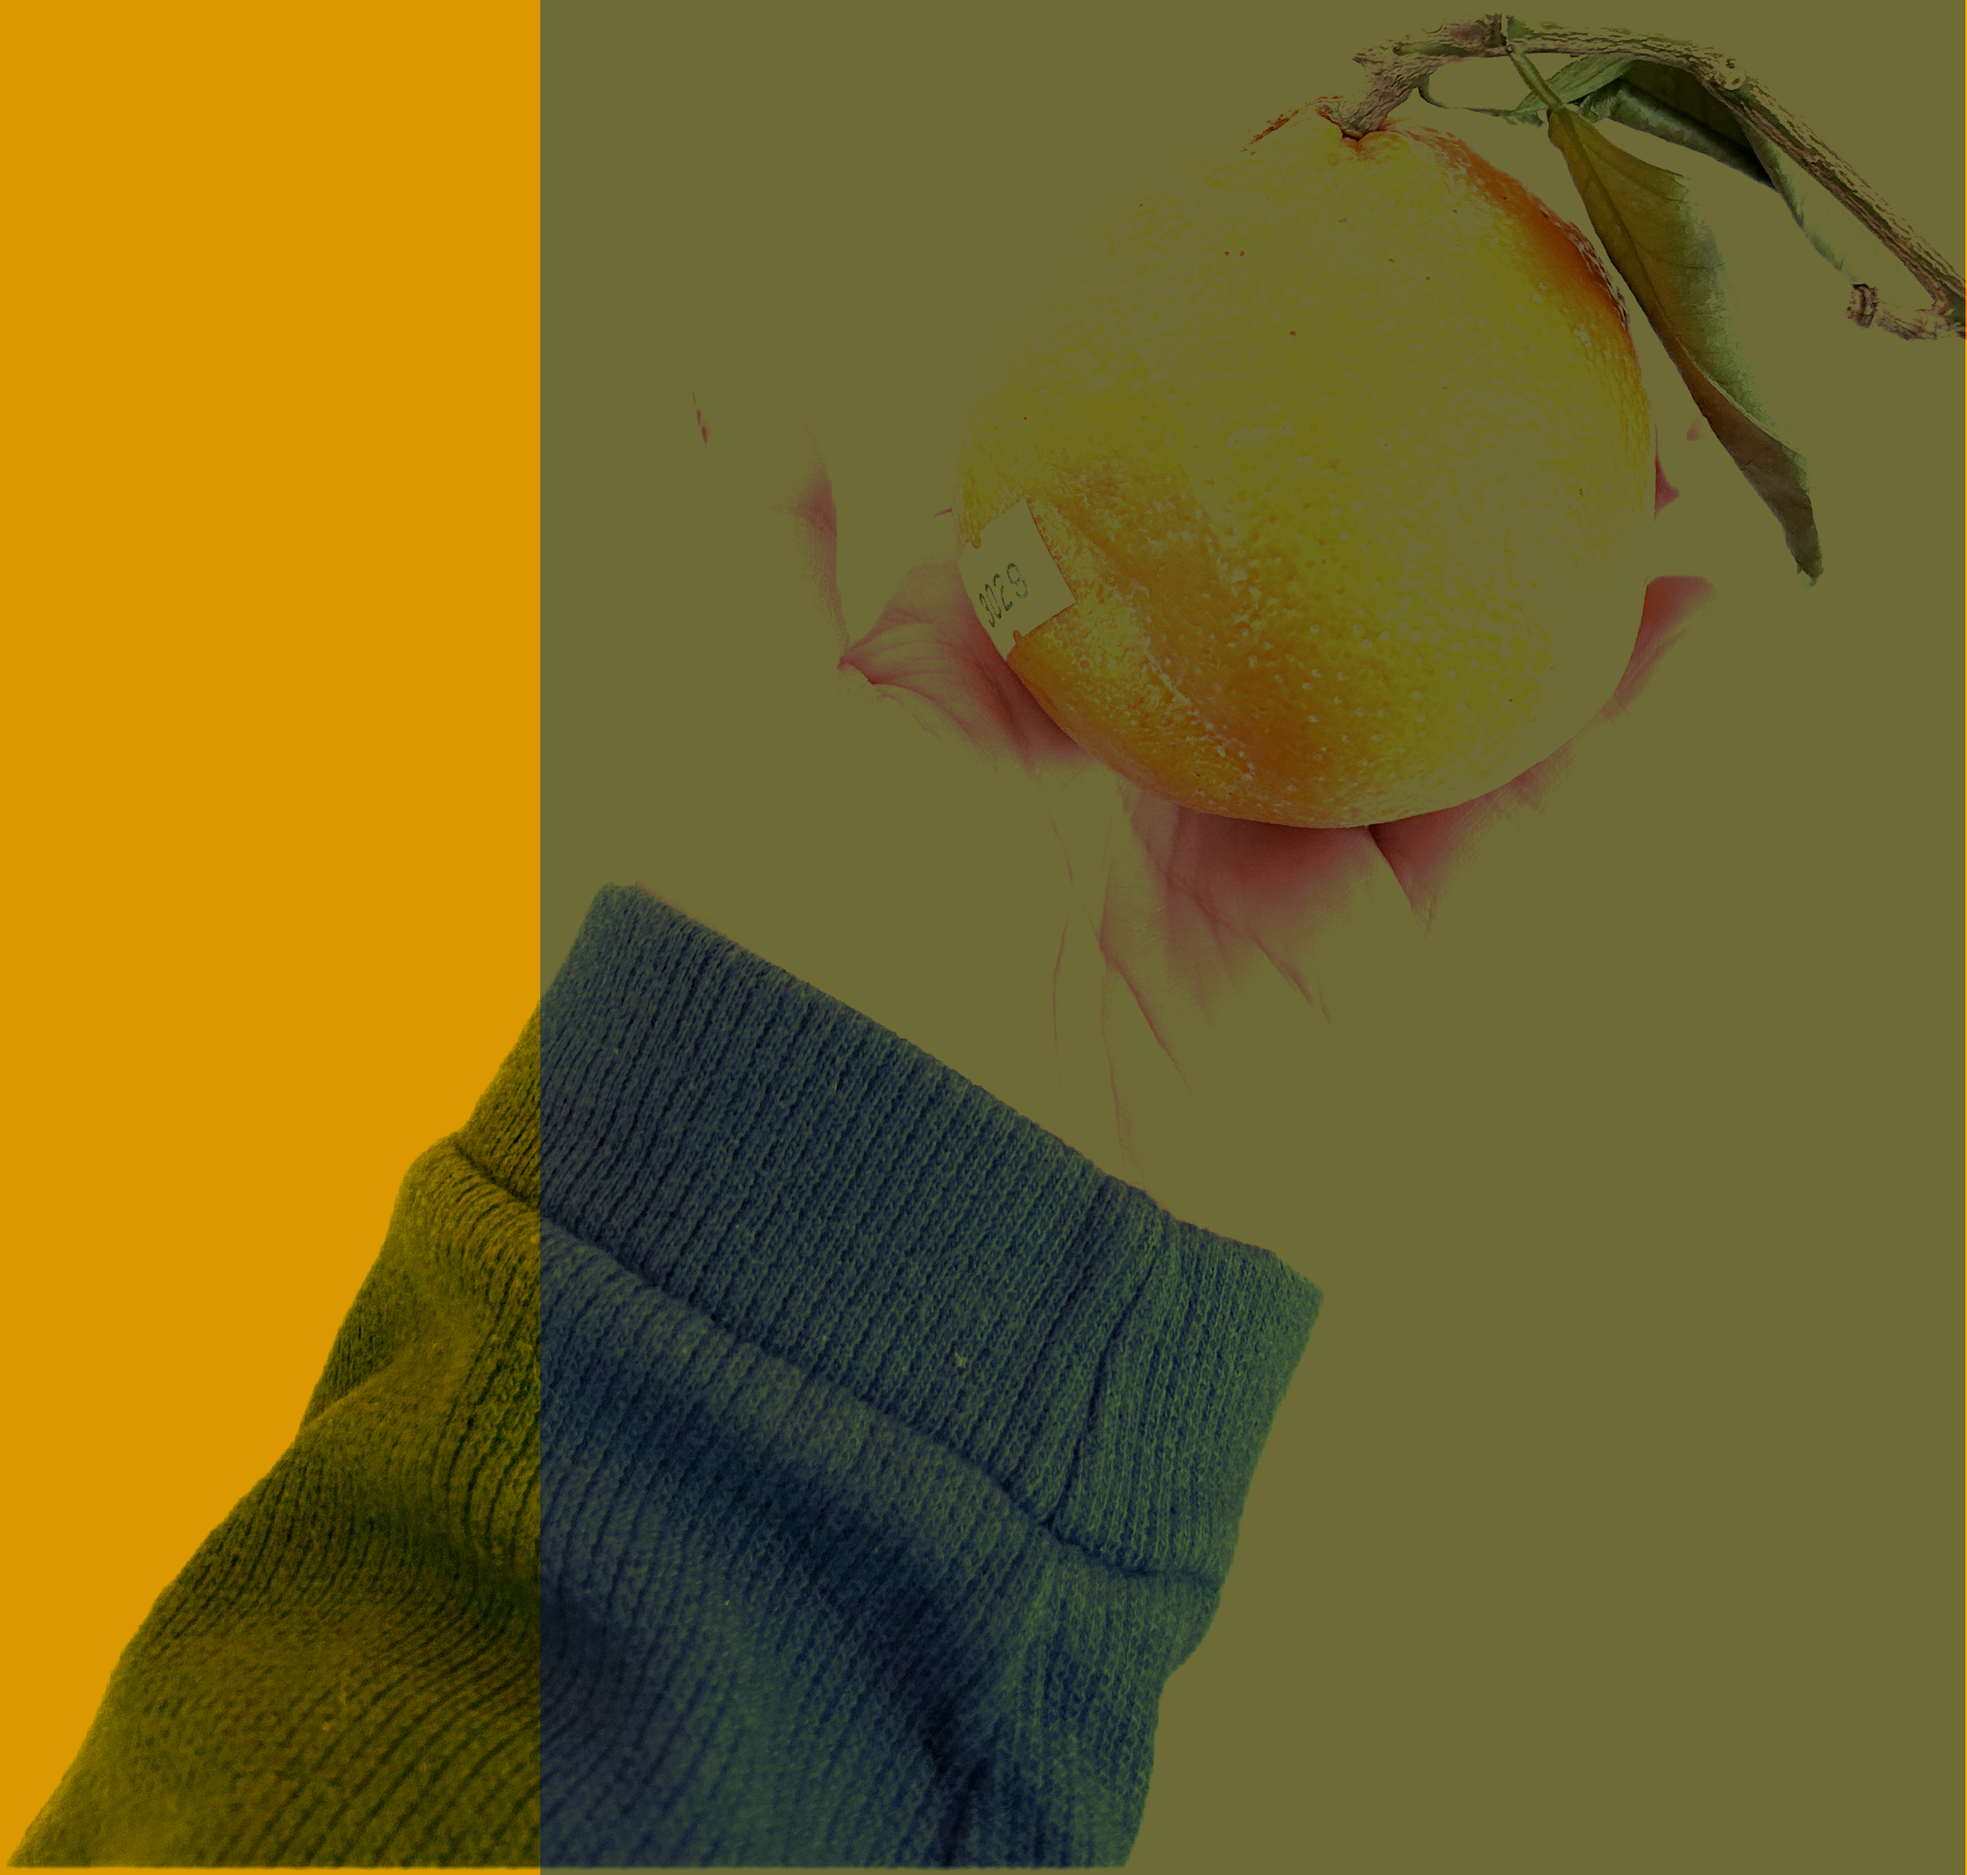
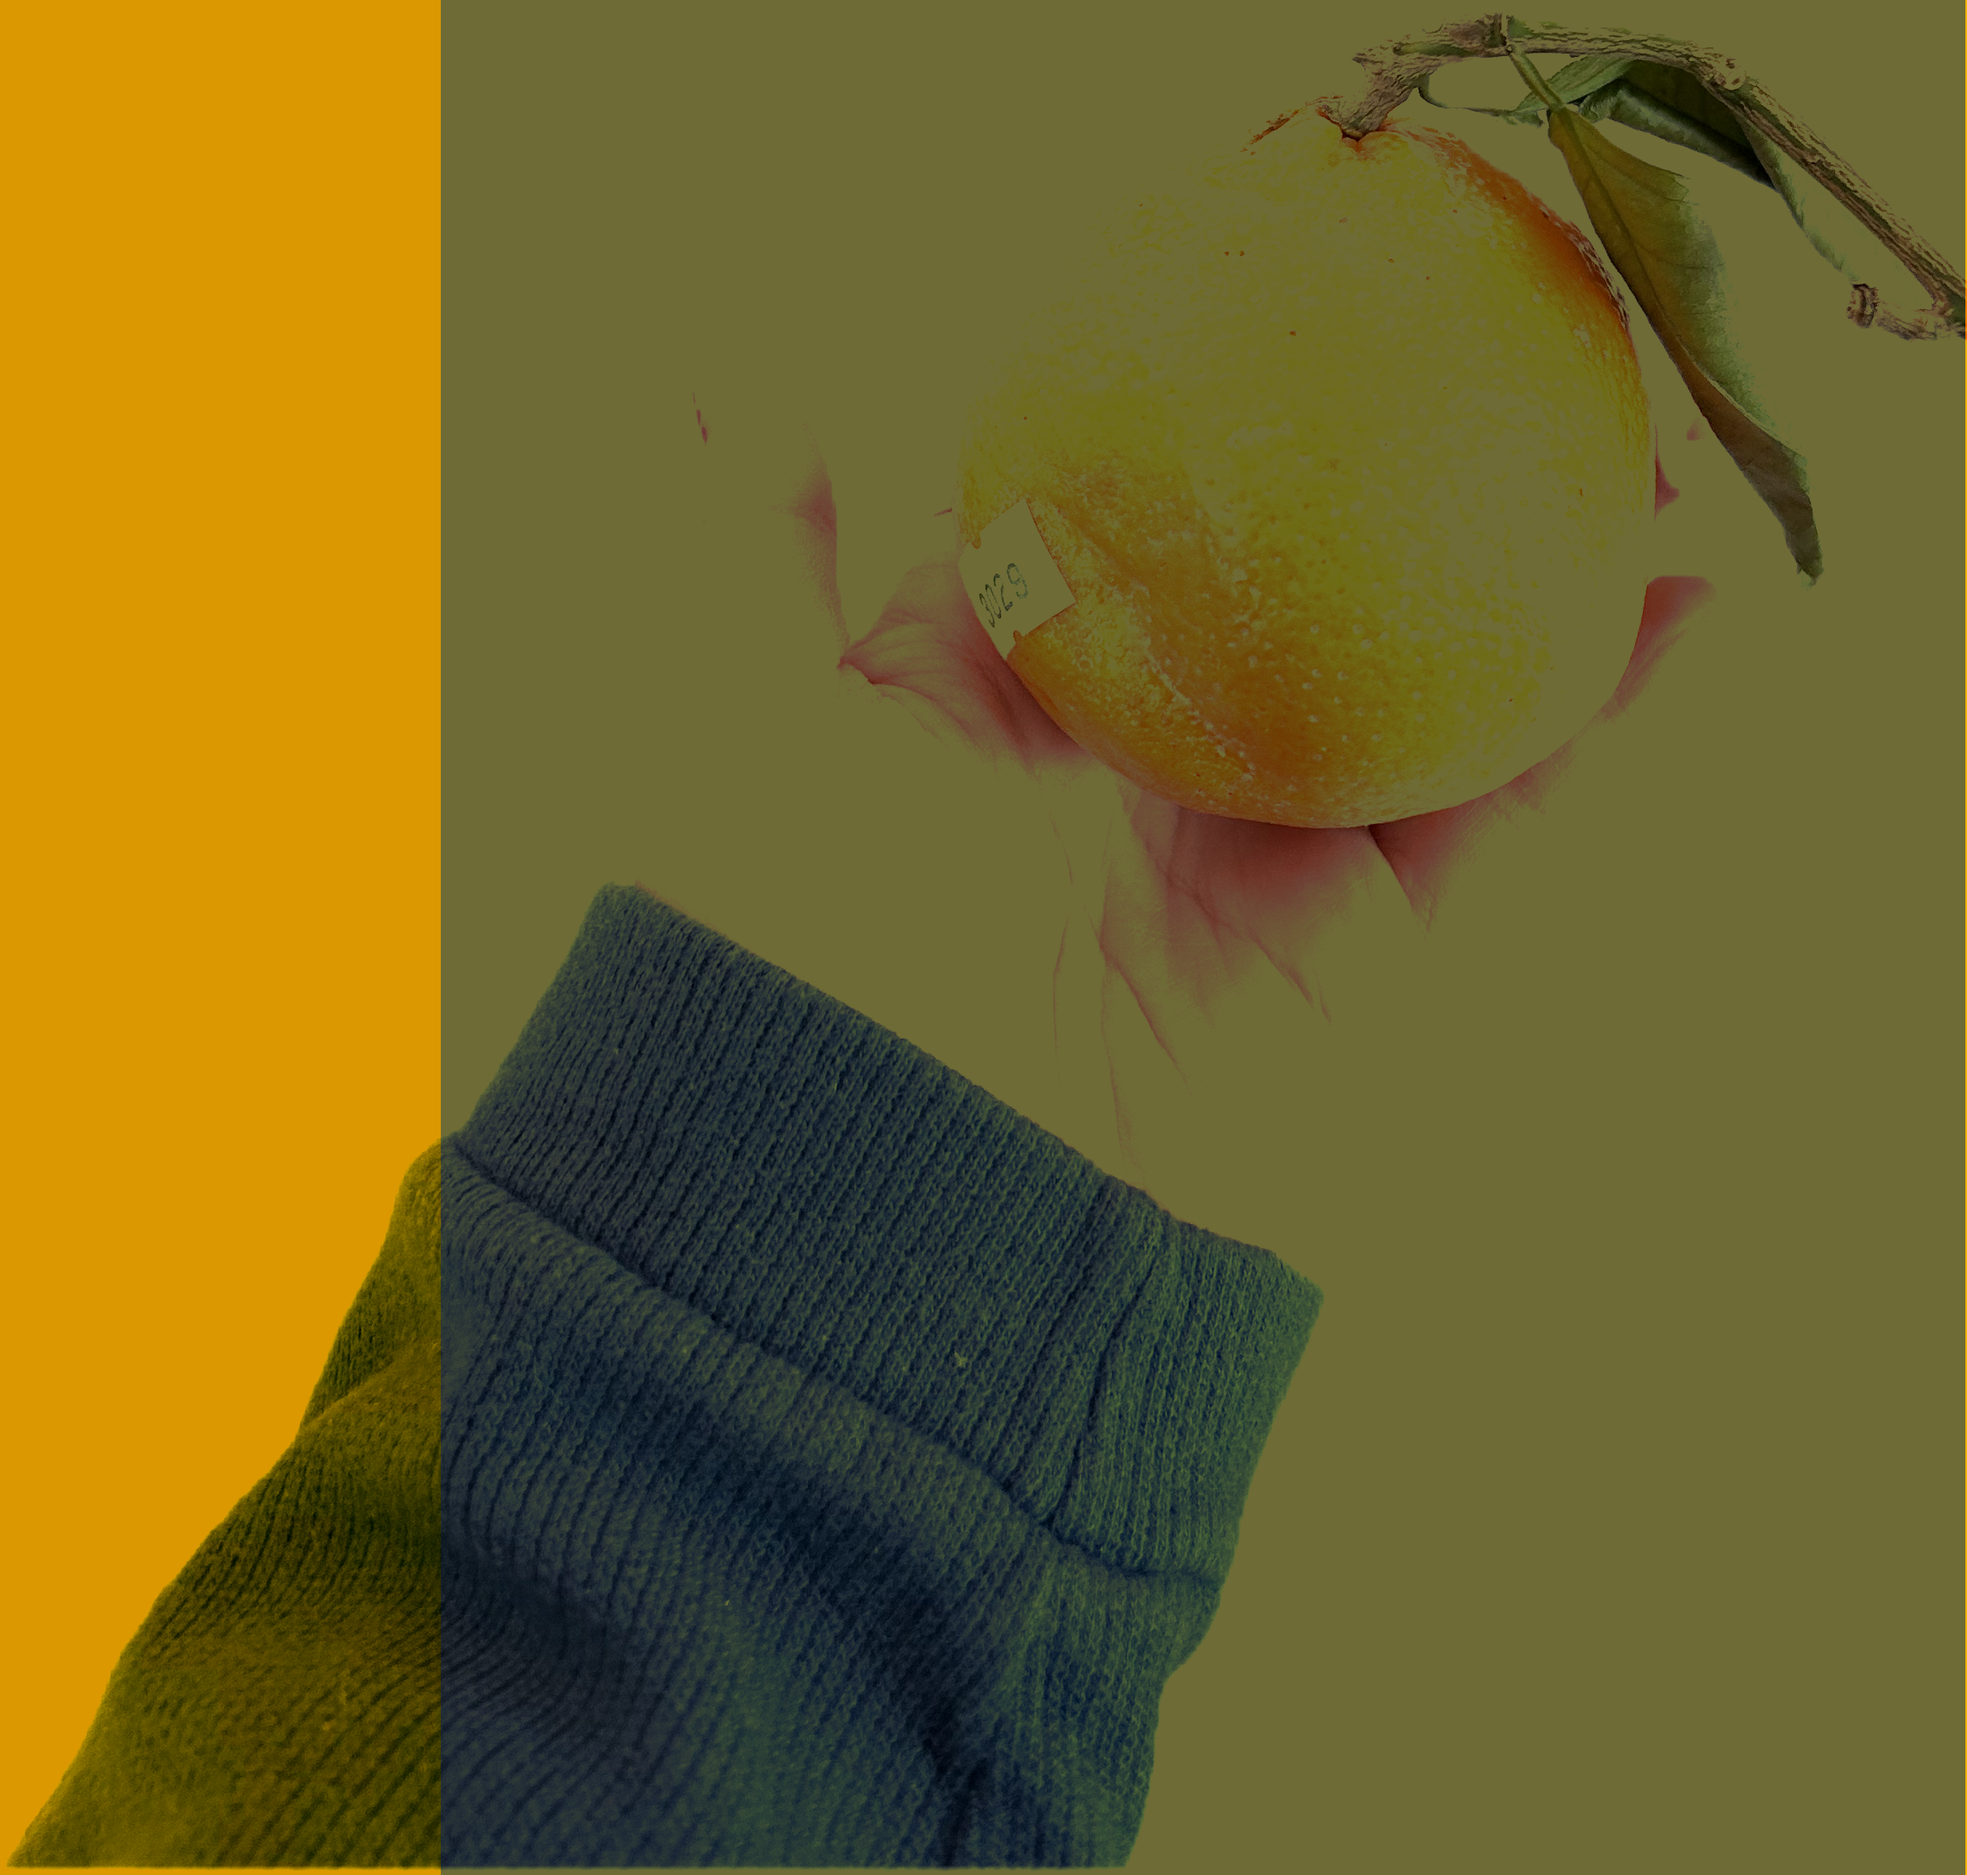
da

Changed region(s): [[0.2168, 0.0, 0.2787, 1.0]]

diff --git a/index.html b/index.html
@@ -15,14 +15,14 @@
         <img src=img/orange.png alt="orange" class=color-change style="float:left;width:650px;height:650px;">
     </a>
 
-    <h3 class="right top goodright italic image-text">THE</h3>
+    <h2 class="goodright color right top italic">THE</h2>
     <h1 class="right top goodbig image-text">INSIDIOUS ORANGE</h1>
 
     <h2 class="top green">___.___.________________________.........._________________..__________________________...._________........______________......______..._____...._...._____...__</h2> 
 
     <div class="top">
         <img src="part1_copy_copy/normal-oranges.png" style="float:right">
-        <dialog open><h2>scroll down & click on the insidious orange to see my google drive folder of oranges</h2></dialog>
+        <dialog open class="background_color"><h2>scroll down & click on the insidious orange to see my google drive folder of oranges</h2></dialog>
     </div>
     
             
@@ -52,22 +52,34 @@
     <div class="background1">
         <h1 class="green">........................................................................................................................................................................................................................</h1>          
         
-        <h2>
-        <dialog open class="color">tag yourself. which orange are you?</dialog>
-        </h2>
+        <h5>
+        <dialog open class="background_color"><h2>tag yourself. which orange are you? learn more by hovering over the box below.</h2></dialog>
+        </h5>
 
         <p class="green">oh my orange......orange...o......orange........o.........o......o.......o.......o........range............of.....oranges......what is an orange when you really think about..........orange!...orange.....orange....orange....orange....orange.....orange.....orange......i'm thinking.....about.....orange.......</p>
         
         <h1 class="green">...............................................................................................................................................................................................................................................................................................</h1>
             
-        <dialog open>
+        <dialog open class="color background_color2">
             <ul>
-                <li class="top center color">satsuma mandarin</li>
-                <li class="top color">sumo mandarin</li>
-                <li class="top color">blood orange</li>
-                <li class="top color">clementine</li>
-                <li class="top color">insidious orange</li>
-                <li class="top color">tangerine</li>
+                <a href="https://en.wikipedia.org/wiki/Citrus_unshiu">
+                    <li class="top center color">satsuma mandarin</li>
+                </a>
+                <a href="https://sumocitrus.com/">
+                    <li class="top color">sumo mandarin</li>
+                </a>
+                <a href="https://www.bloodorange.net/">
+                    <li class="top color">blood orange</li>
+                </a>
+                <a href="">
+                    <li class="top color">clementine</li>
+                </a>
+                <a href="">
+                    <li class="top color">insidious orange</li>
+                </a>
+                <a href="https://en.wikipedia.org/wiki/Tangerine_(Led_Zeppelin_song)">
+                    <li class="top color">tangerine</li>
+                </a>
             </ul>
         </dialog>
 

diff --git a/style.css b/style.css
@@ -20,12 +20,15 @@ p {
     color:#6E6B36;
  }
 
+ h5{
+    size: 20pt;
+ }
  .color{
     color:#6E6B36
  }
 
 .goodright{
-    color:#FFA500;
+    color: #6E6B36;
     font-size: 80px;
 }
 
@@ -66,6 +69,10 @@ p {
 
 .background_color{
     background-color: #FFA500;
+}
+
+.background_color2{
+    background-color: #6E6B36;
 }
 
 li{
